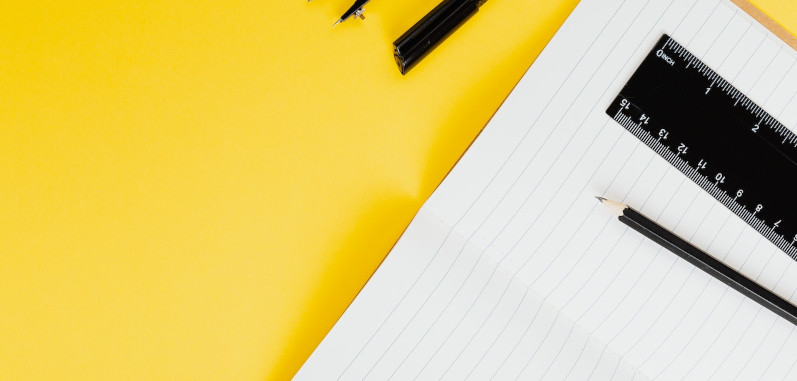
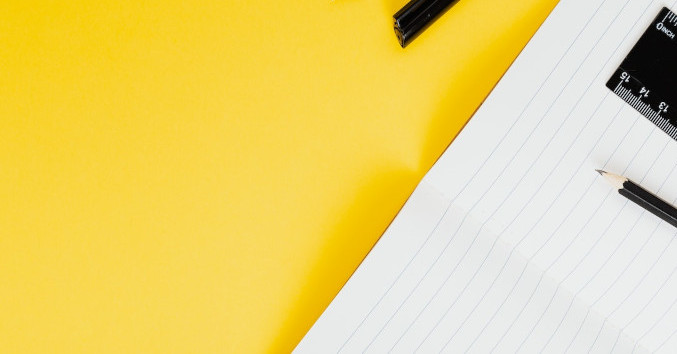
Ajustes na versão móvel

Changed region(s): [[0.3102, 0.0, 1.0, 1.0], [0.7445, 0.4972, 1.0, 0.8701]]

diff --git a/styles/estilo.css b/styles/estilo.css
@@ -22,7 +22,7 @@
 
 header {
     background-image: url('../imgs/oficina-mobile.jpg');
-    background-position: center center;
+    background-position: top center;
     background-size: cover;
     padding-top: 20px;
     margin-bottom: 20px;
@@ -43,8 +43,9 @@ header > p {
 header #menu-icon {
     display: inline-block;
     text-align: left;
+    font-size: 1.8em;
     cursor: pointer;
-    padding: 5px;
+    padding: 6px;
 }
 
 header #menu-icon.clicked {
@@ -52,18 +53,13 @@ header #menu-icon.clicked {
     color: white;
 }
 
-/* header #menu-icon:active {
-    background-color: black;
-    color: white;
-} */
-
 header > nav {
     display: none;
     position: absolute;
     transform: translate(3px, 3px);
-    background-color: #000000b4;
+    background-color: #000000da;
     width: 200px;
-    padding: 15px;
+    padding: 8px 15px 15px 15px;
     border-radius: 10px;
 }
 
@@ -83,16 +79,16 @@ header a {
     text-decoration: none;
     font-weight: bold;
     color: white;
-    padding: 10px;
+    padding: 8px;
     border-radius: 20px;
-    margin: 4px 0px;
+    margin: 6px 0px;
 }
 
 header a:hover {
     font-size: 1.1em;
     background-color: #ffffffc0;
     color: black;
-    margin: 7px 0px;
+    margin: 8px 0px;
     transition: all .4s;
 }
 
@@ -106,7 +102,11 @@ main > p {
 }
 
 main > h2 {
-    margin: 20px 10px;
+    background-image: linear-gradient(90deg, transparent, var(--cor1));
+    text-align: right;
+    padding: 6px 10px;
+    border-radius: 20px;
+    margin: 20px 8px;
 }
 
 footer {

diff --git a/index.html b/index.html
@@ -7,6 +7,7 @@
     <title>Start! Hora do Desafio</title>
     <link rel="shortcut icon" href="imgs/favicon.png" type="image/x-icon">
     <link rel="stylesheet" href="styles/estilo.css">
+    <link rel="stylesheet" href="style/media-queries.css">
     <link href="https://fonts.googleapis.com/icon?family=Material+Icons" rel="stylesheet">
 </head>
 <body>
@@ -27,7 +28,7 @@
 
     <main>
         <p>
-            Este site foi criado dentro do Itinerário Formativo <strong>Start! Hora do Desafio</strong> para comportar e compartilhar histórias e criações de alunos da Escola EStadual Maria Aparecida Magno.  
+            Este site foi criado dentro do Itinerário Formativo <strong>Start! Hora do Desafio</strong> para comportar e compartilhar histórias e criações de alunos da Escola Estadual Maria Aparecida Magno.  
         </p>
         <h2>
             Trechos de Histórias
@@ -46,7 +47,6 @@
     </footer>
 
     <script>
-
         const menuIcon = document.querySelector('#menu-icon')
 
         // function ajustar() {

diff --git a/styles/media-queries.css b/styles/media-queries.css
@@ -1,0 +1,14 @@
+@charset "UTF-8";
+
+/* 
+    Outros dispositivos
+*/
+
+:root {
+    /* paleta de cores */
+    --cor1: #FADB2A;
+    --cor2: #1863FA;
+    --cor3: #2F59AD;
+    --cor4: #5F0CAD;
+    --cor5: #9223FA;
+}
